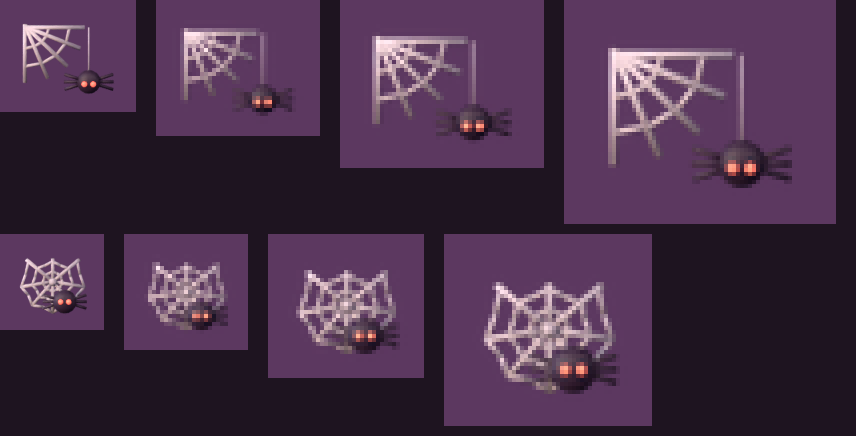
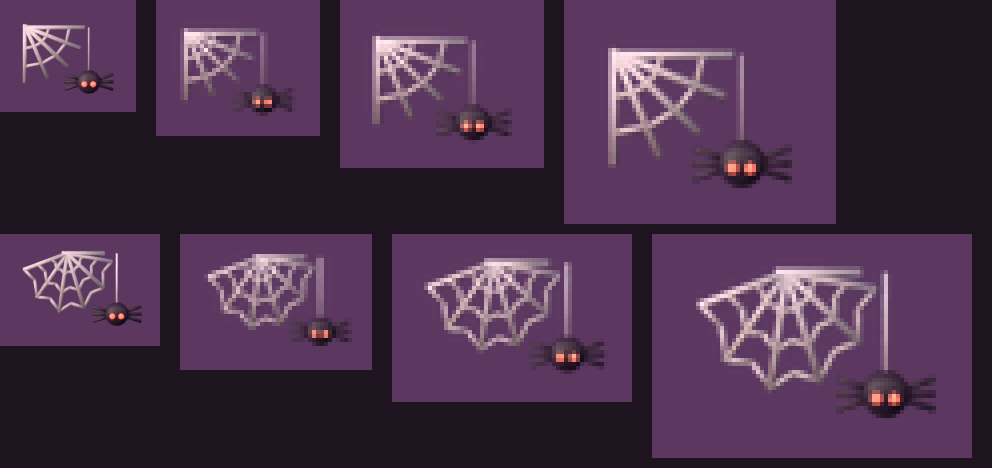
Bram: spinrag ronde 2, halve waaier vanaf het plafond en de spin los aan een dunne draad (frisse kijker 8 tegen 5 voor main)
Claude-Session: https://claude.ai/code/session_01RMWUygNbFgjgDL3rgrRirX

diff --git a/producten/steam-hol/modellen/versiering.py b/producten/steam-hol/modellen/versiering.py
@@ -171,41 +171,33 @@ def bouw(naam, x, z, y=0.35):
             dx, dz = b[0] - a[0], b[1] - a[1]
             cil(ouder, p + "_draad", ((a[0] + b[0]) / 2, -0.1, (a[1] + b[1]) / 2), r * s, math.hypot(dx, dz) * 1.04,
                 web, rot=(0, math.atan2(dx, dz), 0), verts=6)
-        hz, R = -2.6, 4.0  # naaf in spelpixels onder het plafond, straal van het web; de cirkel wordt door het plafond afgesneden
-        ah = math.degrees(math.asin(-hz / R))  # hoek waar de cirkel het plafond raakt
-        boven = [180 - ah, 90, ah]
-        onder = [190, 230, 270, 310, 350]
+        # Ronde 2 (frisse kijker op het ronde web: 5 tegen 8 voor het oude, "zweeft als los stempel, spin valt erin weg"):
+        # een halve waaier die vanaf het plafond omlaag hangt (naaf op het plafond, geen rechte paal), en de spin weer los
+        # aan een eigen draad ernaast, met een eigen silhouet; de draad lichter en dikker.
+        R = 5.6
+        spaken = [196, 228, 260, 292, 324, 352]
 
         def punt(a, r):
-            return (math.cos(math.radians(a)) * r * s, (hz + math.sin(math.radians(a)) * r) * s)
-        for a in boven:
-            r_eind = -hz / math.sin(math.radians(a))
-            draad(punt(a, 0), punt(a, r_eind + 0.3), 0.26)
-        for a in onder:
-            draad(punt(a, 0), punt(a, R), 0.24)
-        rond = sorted(boven + onder)
-        for rr in (1.3, 2.6, R):  # ringen en buitenrand, elk stuk zakt iets door naar de naaf toe
-            for i in range(len(rond)):
-                a1, a2 = rond[i], rond[(i + 1) % len(rond)]
-                if rr == R and a1 < 90 <= a2:  # geen buitenrand langs het plafond
-                    continue
+            return (-1.2 * s + math.cos(math.radians(a)) * r * s, math.sin(math.radians(a)) * r * s * 1.35)  # dieper: de camera kijkt schuin
+        draad(punt(180, 0.6), punt(0, 4.6), 0.3)  # plafondlijn waar het web aan vast zit
+        for a in spaken:
+            draad(punt(a, 0), punt(a, R), 0.26)
+        for rr in (2.0, 3.8, R):
+            for a1, a2 in zip(spaken, spaken[1:]):
                 q1, q2 = punt(a1, rr), punt(a2, rr)
-                if q1[1] > 0.02 * s or q2[1] > 0.02 * s:  # ring boven het plafond: overslaan
-                    continue
-                qm = punt(a1 + ((a2 - a1) % 360) / 2, rr * 0.88)
-                draad(q1, qm, 0.2)
-                draad(qm, q2, 0.2)
-        bol(ouder, p + "_naaf", (0, -0.12, hz * s), (0.5 * s,) * 3, web, 8)
-        # spin klein op het web, rechtsonder op de tweede ring, zodat de naaf en de spaken zichtbaar blijven
-        sx0, sz0 = punt(305, 2.6)
-        k = 1.1
-        bol(ouder, p + "_lijf", (sx0, -0.3, sz0), (1.5 * s * k / 1.1, 1.2 * s, 1.5 * s * k / 1.1), zw, 16)
+                qm = punt((a1 + a2) / 2, rr * 0.86)
+                draad(q1, qm, 0.21)
+                draad(qm, q2, 0.21)
+        draad_l = m("draad_l", "c9c3d2", rough=0.6)  # lichter dan het web, zodat de spin zichtbaar ergens aan hangt
+        sx0, sz0 = 5.0 * s, -7.4 * s  # iets los van de rand van het web (frisse kijker: draad las als paal)
+        cil(ouder, p + "_hangdraad", (sx0, -0.1, sz0 / 2), 0.15 * s, -sz0, draad_l, verts=6)
+        bol(ouder, p + "_lijf", (sx0, -0.12, sz0 - 0.4 * s), (1.5 * s, 1.2 * s, 1.5 * s), zw, 16)
         for sx in (-1, 1):
-            bol(ouder, p + "_oog", (sx0 + sx * 0.5 * s, -0.3 - 1.1 * s, sz0 + 0.25 * s), (0.32 * s,) * 3, oog, 8)
+            bol(ouder, p + "_oog", (sx0 + sx * 0.55 * s, -0.12 - 1.15 * s, sz0 - 0.4 * s), (0.35 * s,) * 3, oog, 8)
             for j in range(3):
                 a = math.radians(-30 + j * 30)
-                cil(ouder, p + "_poot", (sx0 + sx * 1.7 * s, -0.3, sz0 + math.sin(a) * 1.1 * s),
-                    0.18 * s, 2.1 * s, zw, rot=(0, sx * (math.pi / 2 - a * 0.6), 0), verts=6)
+                cil(ouder, p + "_poot", (sx0 + sx * 1.9 * s, -0.12, sz0 - 0.4 * s + math.sin(a) * 1.2 * s),
+                    0.2 * s, 2.4 * s, zw, rot=(0, sx * (math.pi / 2 - a * 0.6), 0), verts=6)
     elif naam == "stut":
         # twee palen tot op de vloer en een balk eronder tegen het plafond; hangpunt = midden bovenkant
         for sx in (-1, 1):
